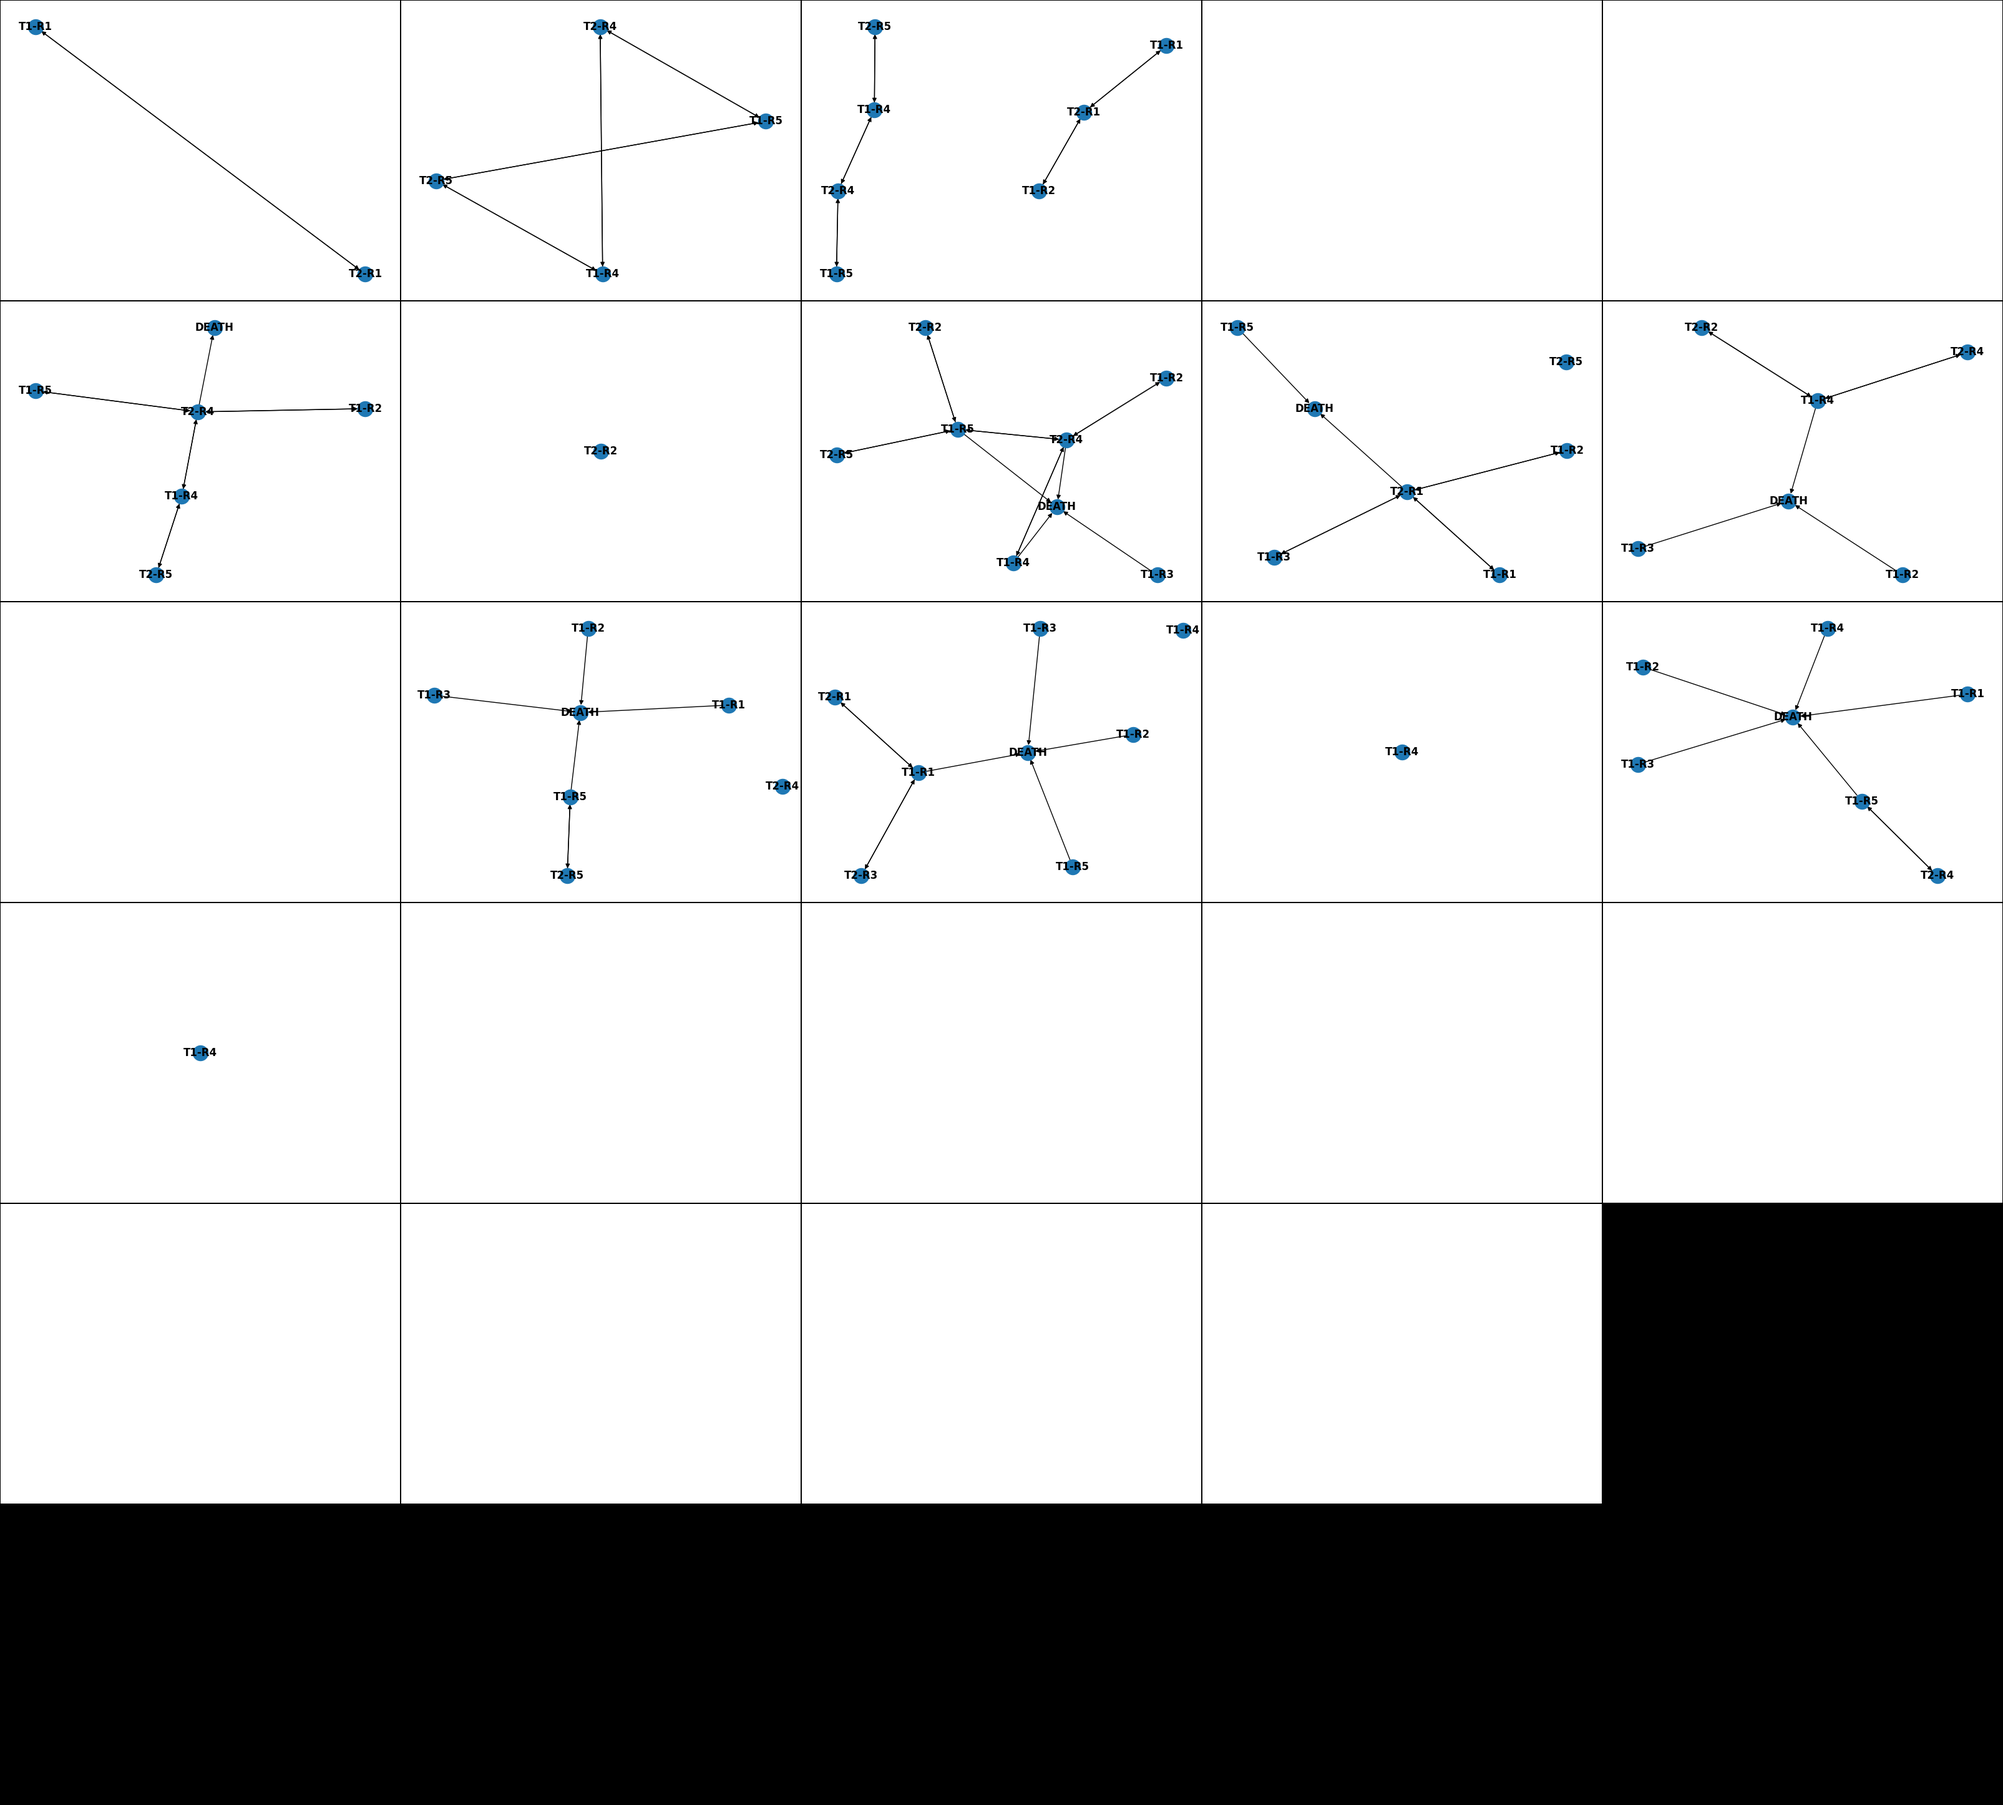
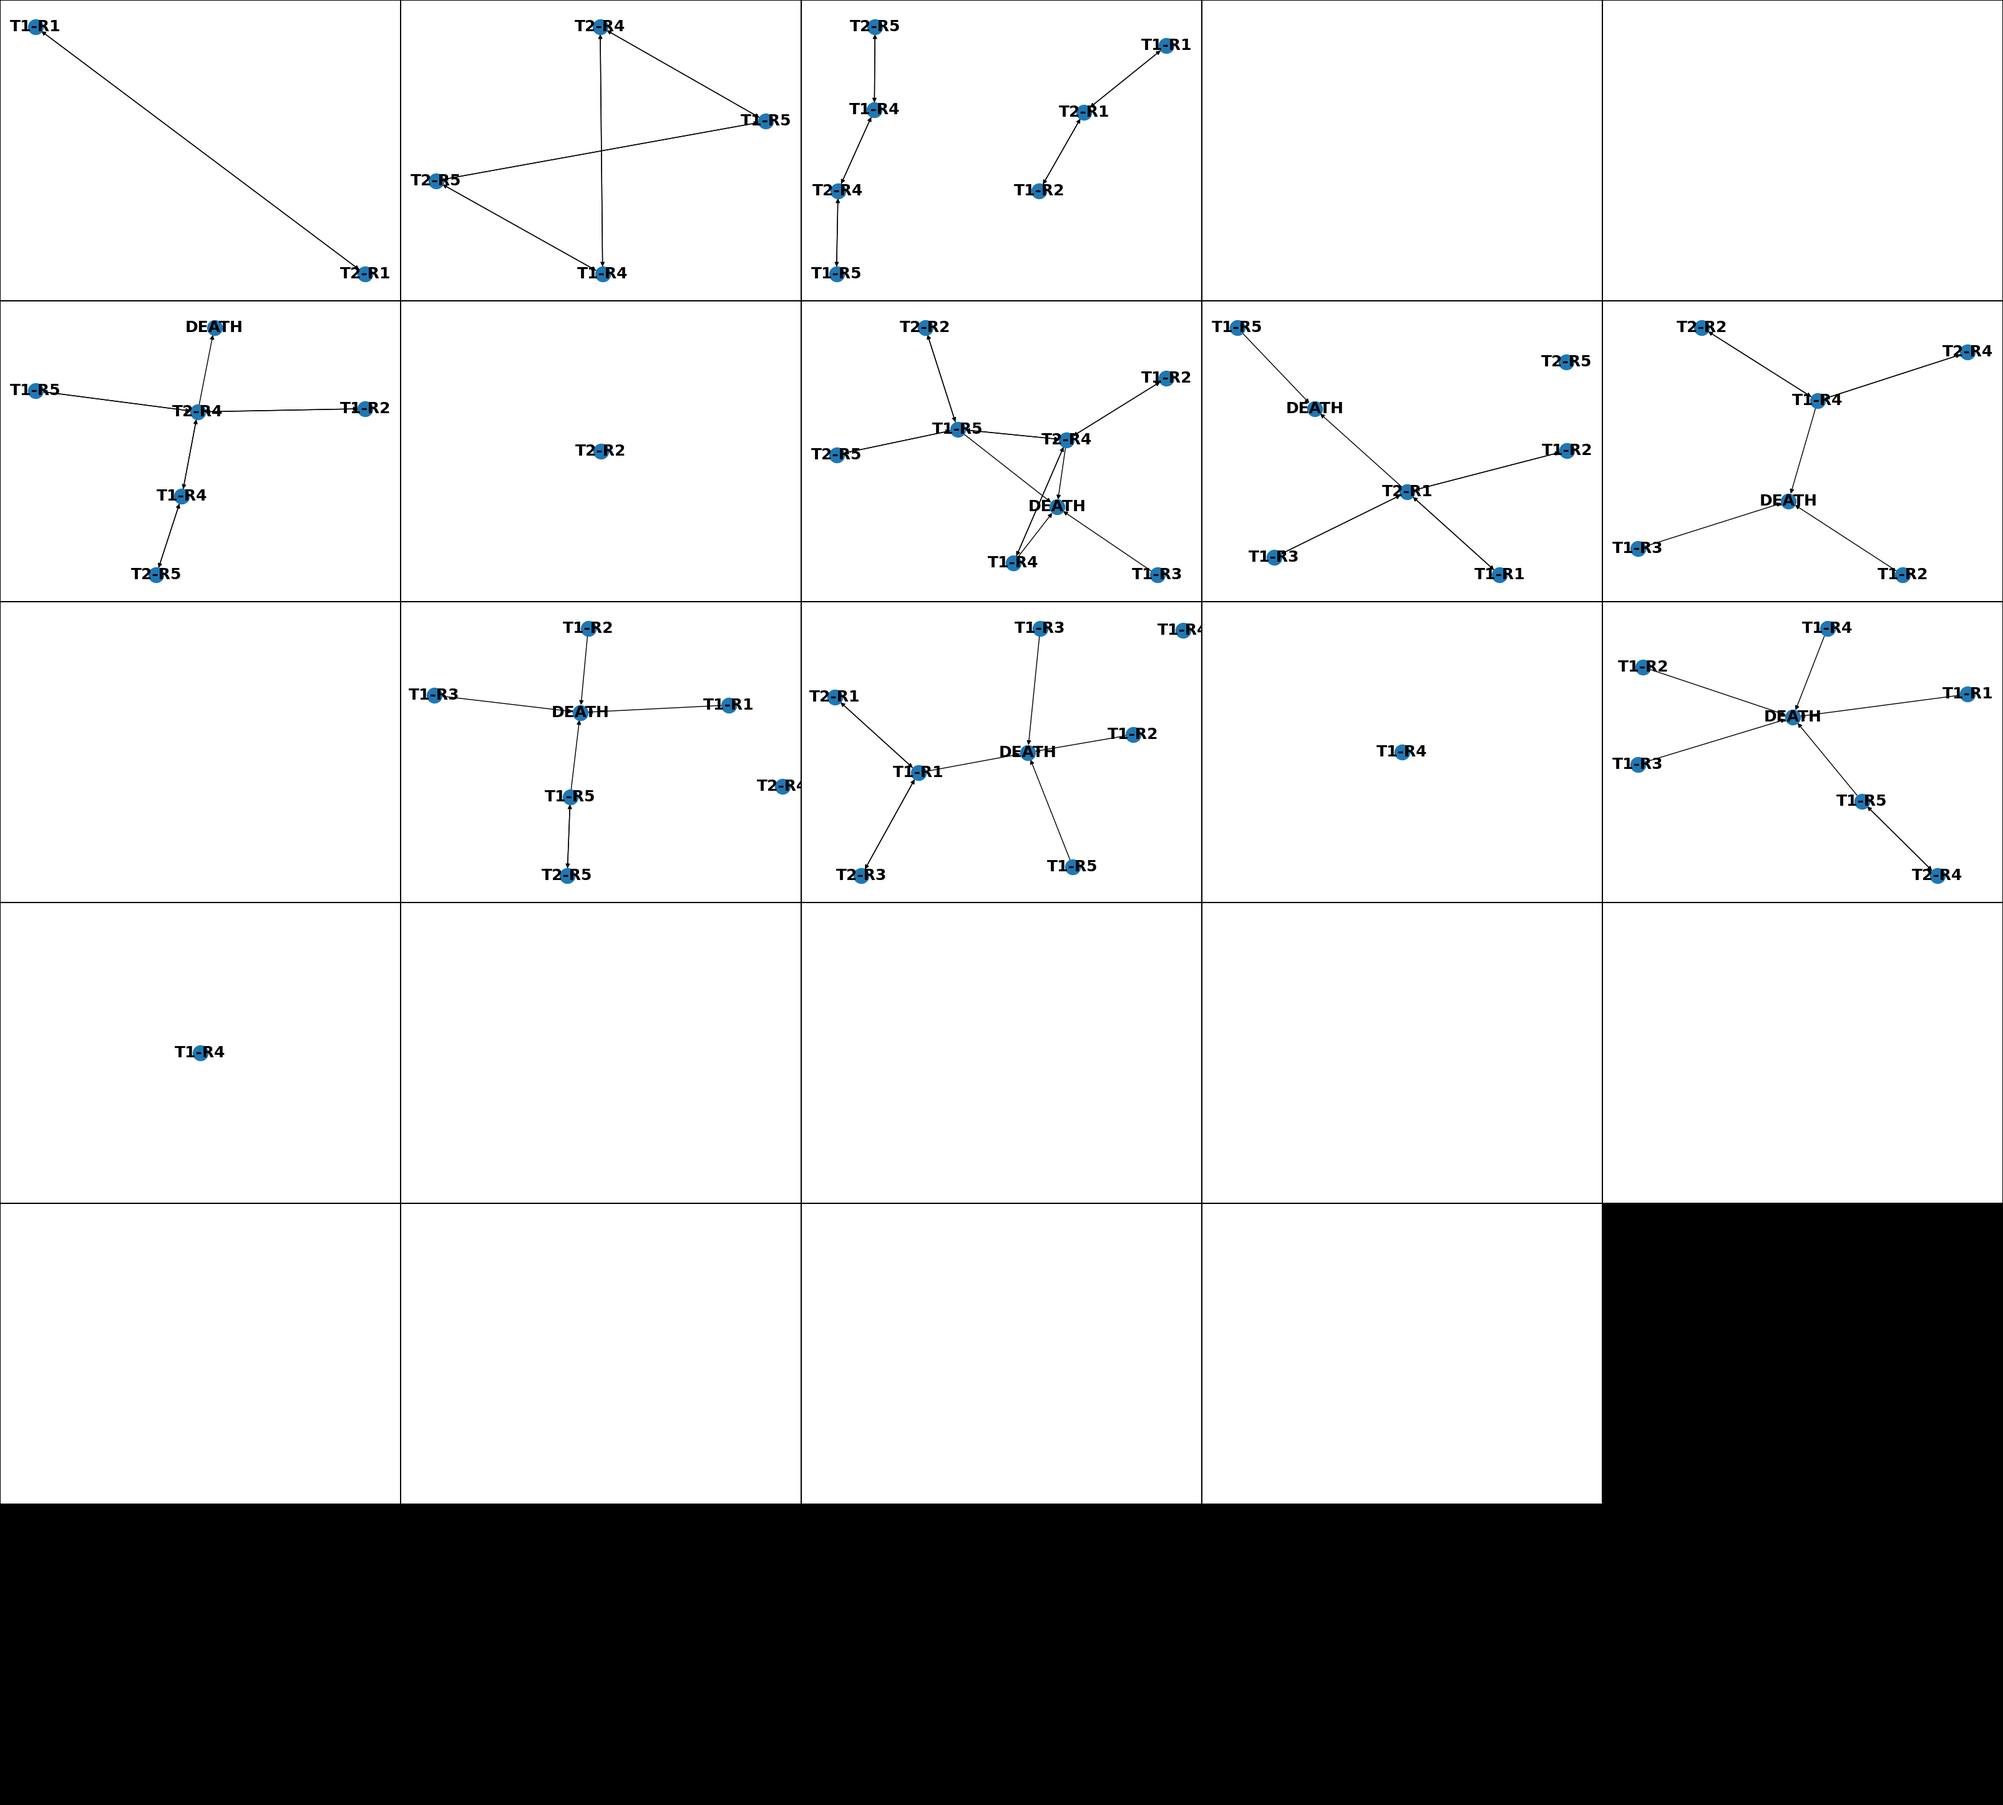
Update font size for graph labels

Changed region(s): [[0.8723, 0.249, 0.9034, 0.2801], [0.4984, 0.4046, 0.5296, 0.4357], [0.0935, 0.1556, 0.1246, 0.1867]]

diff --git a/main.py b/main.py
@@ -233,7 +233,7 @@ def consruct_frequents_subgraphs_image(games, trained_features, winner='T2'):
             
         fig = plt.figure()
         pos = nx.nx_agraph.graphviz_layout(merged_graph)
-        nx.draw(merged_graph, with_labels=True, font_weight='bold', pos=pos)
+        nx.draw(merged_graph, with_labels=True, font_weight='bold', pos=pos, font_size=18)
         fig.canvas.draw()
         image = Image.frombytes('RGB', fig.canvas.get_width_height(), fig.canvas.tostring_rgb())
         image = ImageOps.expand(image, border=1, fill='black')
